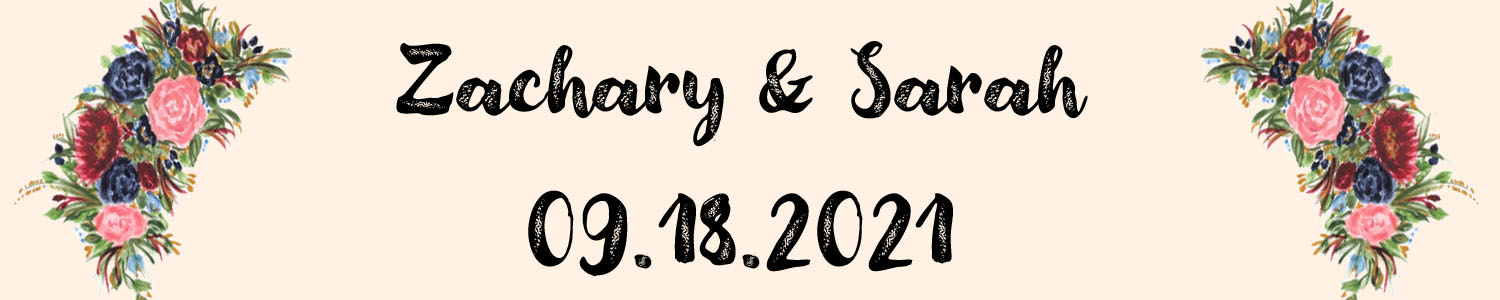
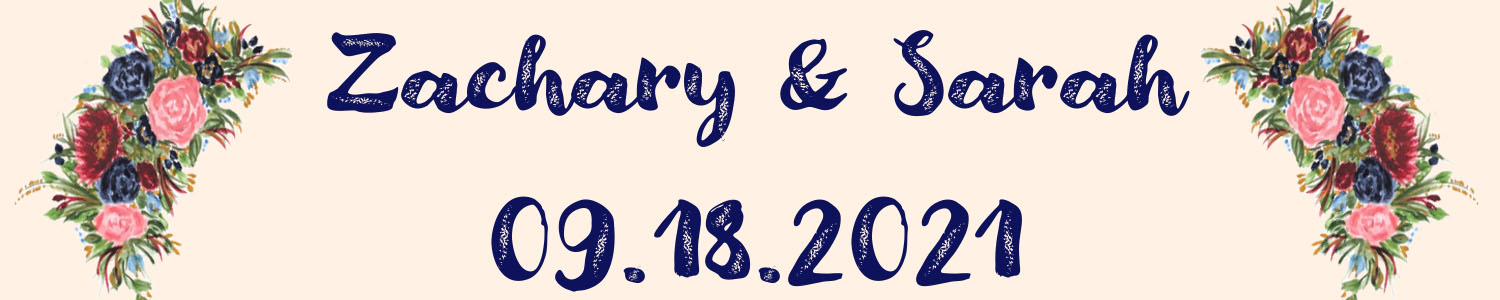
Font Color Change

Changed region(s): [[0.2147, 0.09, 0.7973, 0.51], [0.3067, 0.63, 0.7053, 0.99]]

diff --git a/styles.css b/styles.css
@@ -10,7 +10,7 @@ img {
 }
 body {
     background-color:#FFF1e3;
-    color: #00008c;
+    color: #0e125a;
     padding: 0;
     margin: 0;
 }
